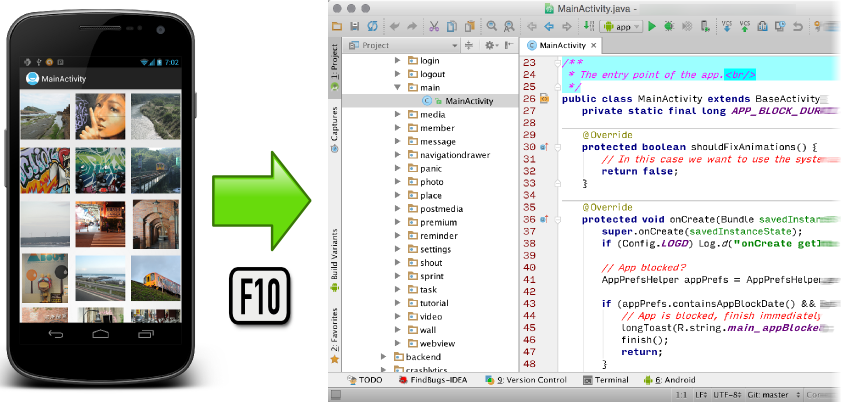
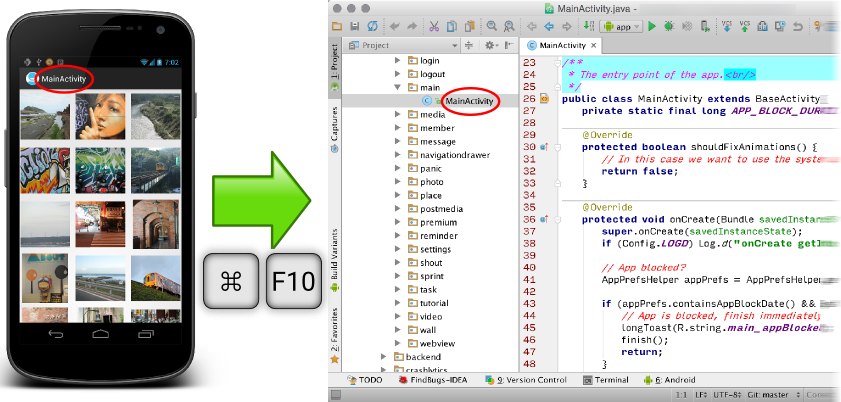
Changed default shortcut.

diff --git a/README.md b/README.md
@@ -5,8 +5,8 @@ A little plugin for Android development (Android Studio or IntelliJ).
 
 ![Illustration](/illus.png?raw=true "Illustration")
 
-Adds an action under **Navigate / Current Activity** (default shortcut: `F10`) that opens the class
-corresponding to the currently shown Activity on the attached device / emulator.
+Adds an action under **Navigate / Current Activity** (default shortcut: `Ctrl` `F10` on PC, `⌘` `F10` on Mac) that opens the class
+corresponding to the currently shown Activity on the attached device or emulator.
 
 Why?
 ----
